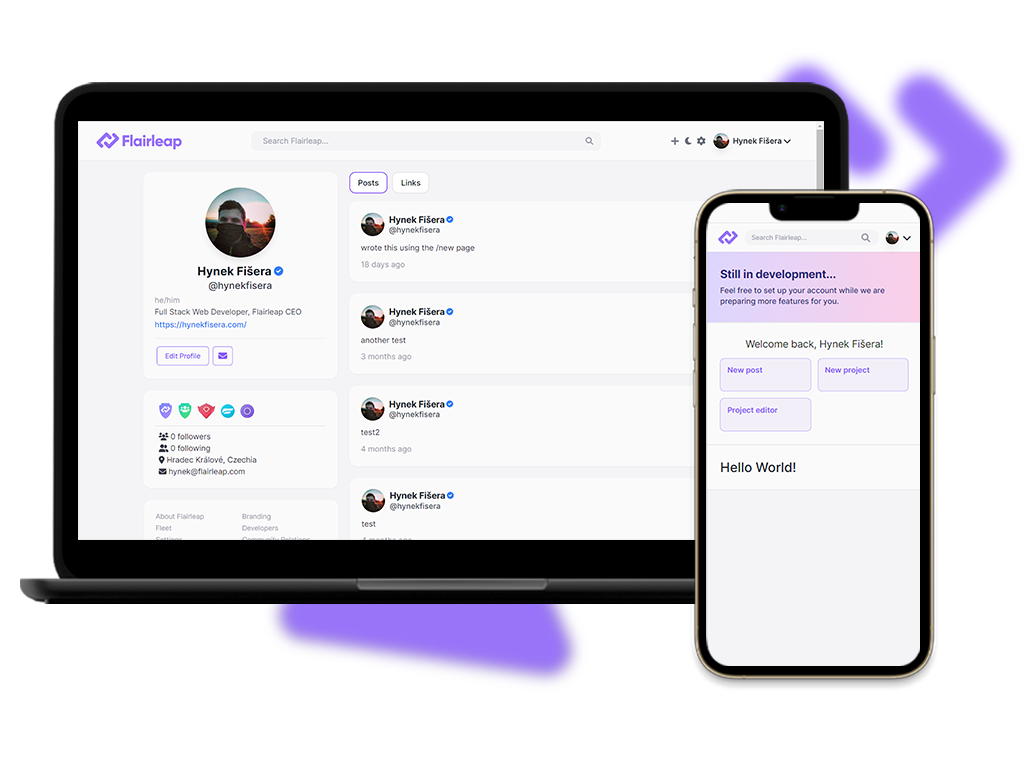
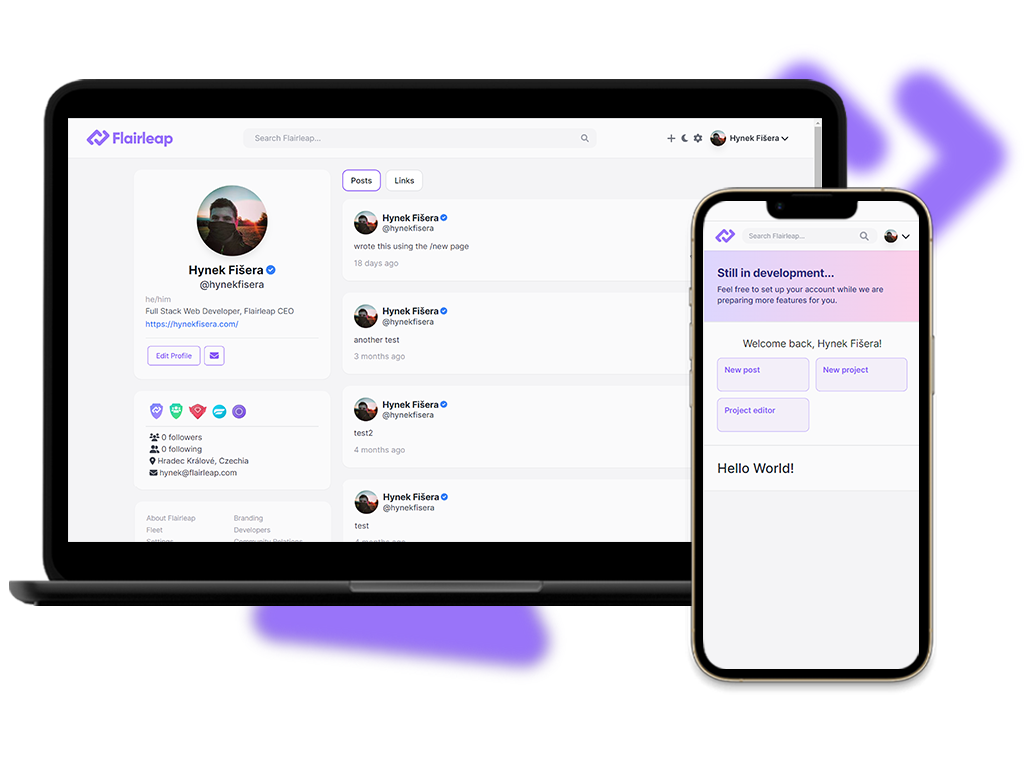
Fixed navbar & gradients

diff --git a/pages/index.tsx b/pages/index.tsx
@@ -7,15 +7,15 @@ import { serverSideTranslations } from "next-i18next/serverSideTranslations";
 import TransLink from "../components/translation/TransLink";
 
 import AcewillLogo from "/public/assets/portfolio/acewill.png";
-import AcewillImage from "/public/assets/portfolio/portfolioAcewill.webp";
+import AcewillImage from "/public/assets/portfolio/portfolioAcewill.png";
 import GarnetLogo from "/public/assets/portfolio/garnet.svg";
-import GarnetImage from "/public/assets/portfolio/portfolioGarnet.webp";
+import GarnetImage from "/public/assets/portfolio/portfolioGarnet.png";
 import EryesLogo from "/public/assets/portfolio/eryes.png";
-import EryesImage from "/public/assets/portfolio/portfolioEryes.webp";
+import EryesImage from "/public/assets/portfolio/portfolioEryes.png";
 import VrccLogo from "/public/assets/portfolio/vrcc.png";
-import VrccImage from "/public/assets/portfolio/portfolioVrcc.webp";
+import VrccImage from "/public/assets/portfolio/portfolioVrcc.png";
 import NyliumLogo from "/public/assets/portfolio/nylium.png";
-import NyliumImage from "/public/assets/portfolio/portfolioNylium.webp";
+import NyliumImage from "/public/assets/portfolio/portfolioNylium.png";
 import SwiftpassLogo from "/public/assets/portfolio/vercel.png";
 import SwiftpassImage from "/public/assets/portfolio/portfolioSwiftpass.png";
 import FlairleapLogo from "/public/assets/portfolio/flairleap.svg";
@@ -113,16 +113,16 @@ const Home: NextPage = (props: any) => {
         ]}
       />
       <main>
-        <section id="about-me" className="py-12">
+        <section id="about-me" className="pt-28 pb-20 bg-gradient-to-b from-indigo-50 to-violet-100 shadow-inner">
           <div className="max-w-screen-lg mx-auto px-4">
             <div className="my-auto">
-              <h1 className="text-2xl md:text-3xl font-semibold text-gray-700">
+              <h1 className="text-2xl md:text-3xl font-semibold text-slate-700">
                 <Trans t={t} i18nKey="intro_hello" components={[<span className="text-indigo-500" key={0} />]} />
               </h1>
-              <p className="sm:text-lg xl:text-xl text-gray-900 mt-4 xl:mt-5">
+              <p className="sm:text-lg xl:text-xl text-slate-900 mt-4 xl:mt-5">
                 <Trans t={t} i18nKey="intro_tech" components={[<span className="font-semibold" key={0}></span>, <span className="font-semibold" key={1}></span>, <span className="font-semibold" key={2}></span>]} />
               </p>
-              <p className="sm:text-lg xl:text-xl text-gray-900 mt-2 xl:mt-3">
+              <p className="sm:text-lg xl:text-xl text-slate-900 mt-2 xl:mt-3">
                 <Trans t={t} i18nKey="intro_portfolio" components={[<TransLink href="https://github.com/hynekfisera" className="text-indigo-500 hover:underline" key={0} />]} />
               </p>
               <div className="flex flex-wrap mt-4 xl:mt-5 gap-3">
@@ -136,33 +136,35 @@ const Home: NextPage = (props: any) => {
             </div>
           </div>
         </section>
-        <section id="portfolio" className="py-8 max-w-screen-xl mx-auto px-4 xl:px-0">
-          <h2 className="text-center text-3xl sm:text-4xl xl:text-[40px] mb-4 lg:mb-0 text-gray-700">Portfolio</h2>
-          {projects.map((project) => (
-            <div key={project.name} className="flex flex-col sm:even:flex-row-reverse sm:flex-row mb-16 sm:mb-12 md:mb-0">
-              <div className="sm:w-1/2 sm:px-4 md:px-16">
-                <Image src={project.img} alt={project.name} />
-              </div>
-              <div className="sm:w-1/2 flex flex-col justify-center">
-                <div className="flex items-center mb-4">
-                  <div className="h-8 w-8 sm:h-10 sm:w-10 xl:h-11 xl:w-11 mr-2 flex items-center justify-center">
-                    <Image src={project.logo} alt={project.name + "logo"} />
+        <section id="portfolio" className="pb-2 lg:pb-6 pt-12 lg:pt-16 bg-slate-50">
+          <div className="max-w-screen-xl mx-auto px-4 xl:px-0">
+            <h2 className="text-center text-3xl sm:text-4xl xl:text-[40px] mb-4 lg:mb-0 text-slate-700">Portfolio</h2>
+            {projects.map((project) => (
+              <div key={project.name} className="flex flex-col sm:even:flex-row-reverse sm:flex-row mb-16 sm:mb-12 md:mb-0">
+                <div className="sm:w-1/2 sm:px-4 md:px-16">
+                  <Image src={project.img} alt={project.name} />
+                </div>
+                <div className="sm:w-1/2 flex flex-col justify-center">
+                  <div className="flex items-center mb-4">
+                    <div className="h-8 w-8 sm:h-10 sm:w-10 xl:h-11 xl:w-11 mr-2 flex items-center justify-center">
+                      <Image src={project.logo} alt={project.name + "logo"} />
+                    </div>
+                    <span className="text-2xl xl:text-3xl font-bold text-slate-800">{project.name}</span>
                   </div>
-                  <span className="text-2xl xl:text-3xl font-bold text-gray-800">{project.name}</span>
-                </div>
-                <p className="text-lg sm:text-xl xl:text-2xl mb-2 sm:mb-3">{project.description}</p>
-                <div className="flex gap-3">
-                  {project.links.map((link, i) => {
-                    return (
-                      <Link href={link.href} key={i}>
-                        <a className={`xl:text-xl font-semibold transition duration-200 underline underline-offset-2 ${link.type === "primary" ? "text-indigo-500 hover:text-indigo-700" : "text-gray-700 hover:text-gray-900 sm:no-underline"}`}>{link.text}</a>
-                      </Link>
-                    );
-                  })}
+                  <p className="text-lg sm:text-xl xl:text-2xl mb-2 sm:mb-3">{project.description}</p>
+                  <div className="flex gap-3">
+                    {project.links.map((link, i) => {
+                      return (
+                        <Link href={link.href} key={i}>
+                          <a className={`xl:text-xl font-semibold transition duration-200 underline underline-offset-2 ${link.type === "primary" ? "text-indigo-500 hover:text-indigo-700" : "text-slate-700 hover:text-slate-900 sm:no-underline"}`}>{link.text}</a>
+                        </Link>
+                      );
+                    })}
+                  </div>
                 </div>
               </div>
-            </div>
-          ))}
+            ))}
+          </div>
         </section>
       </main>
     </>

diff --git a/components/layout/Header.tsx b/components/layout/Header.tsx
@@ -13,9 +13,16 @@ export default function Header() {
 
   const [transitionEnabled, setTransitionEnabled] = useState(false);
   const [visible, setVisible] = useState(false);
+  const [top, setTop] = useState(true);
 
   useEffect(() => {
     setTransitionEnabled(true);
+  }, []);
+
+  useEffect(() => {
+    const onScroll = () => setTop(window.scrollY <= 50);
+    window.addEventListener("scroll", onScroll, { passive: true });
+    return () => window.removeEventListener("scroll", onScroll);
   }, []);
 
   const links = [
@@ -38,32 +45,34 @@ export default function Header() {
   ];
 
   return (
-    <header className="flex justify-between items-center px-6 py-4 sm:px-8 md:px-12 md:py-6 max-w-screen-2xl mx-auto">
-      <Link href="/">
-        <a className="transition duration-200 hover:opacity-90 flex items-center">
-          <Image src={Logo} alt="Logo" layout="fixed" width={40} height={40} />
-        </a>
-      </Link>
-      <div className="flex flex-row-reverse sm:flex-row items-center justify-end gap-4 sm:gap-6">
-        <div
-          className={`${visible ? "translate-x-0" : "translate-x-full"} ${
-            transitionEnabled && "transition-transform duration-300"
-          } z-10 flex flex-col fixed pt-20 sm:pt-0 pl-8 sm:pl-0 top-0 bottom-0 h-screen sm:h-auto right-0 w-48 sm:w-auto bg-indigo-500 sm:static sm:bg-transparent gap-4 sm:gap-8 sm:translate-x-0 sm:flex-row`}
-        >
-          {links.map((link) => (
-            <Link href={link.href} key={link.href}>
-              <a onClick={() => setVisible(false)} className="xl:text-[17px] font-medium sm:font-semibold underline underline-offset-2 sm:no-underline sm:tracking-wide text-gray-50 sm:text-gray-500 sm:transition sm:duration-200 sm:hover:text-gray-700">
-                {link.text}
-              </a>
-            </Link>
-          ))}
-        </div>
-        <FontAwesomeIcon icon={faBars} className={`z-20 h-7 w-7 ${visible ? "text-white fixed top-[22px] right-6" : "text-gray-700"} sm:!hidden cursor-pointer`} onClick={() => setVisible((v) => !v)} />
-        <Link href={asPath} locale={locale === "en" ? "cs" : "en"}>
-          <a className="flex items-center justify-center text-indigo-500 hover:text-indigo-700 transition duration-200">
-            <FontAwesomeIcon icon={faGlobe} className="h-[18px] sm:h-5" />
+    <header className={`fixed top-0 left-0 right-0 z-50 transition-all duration-200 border-b ${top ? "py-4 md:py-6 bg-transparent border-transparent" : "py-2 md:py-4 border-slate-200 bg-slate-100/50 backdrop-blur-[2px]"}`}>
+      <div className="flex justify-between items-center max-w-screen-2xl mx-auto px-6 sm:px-8 md:px-12">
+        <Link href="/">
+          <a className="transition duration-200 hover:opacity-90 flex items-center">
+            <Image src={Logo} alt="Logo" layout="fixed" width={40} height={40} />
           </a>
         </Link>
+        <div className="flex flex-row-reverse sm:flex-row items-center justify-end gap-4 sm:gap-6">
+          <div
+            className={`${visible ? "translate-x-0 border-l border-slate-200" : "translate-x-full"} ${
+              transitionEnabled && "transition-transform duration-300"
+            } z-10 flex flex-col fixed pt-16 sm:pt-0 pl-8 sm:pl-0 top-0 bottom-0 h-screen sm:h-auto right-0 w-48 sm:w-auto bg-slate-800/80 sm:static sm:bg-transparent gap-4 sm:gap-8 sm:translate-x-0 sm:flex-row`}
+          >
+            {links.map((link) => (
+              <Link href={link.href} key={link.href}>
+                <a onClick={() => setVisible(false)} className="xl:text-[17px] font-medium sm:font-semibold underline underline-offset-2 sm:no-underline sm:tracking-wide text-slate-50 sm:text-slate-600 sm:transition sm:duration-200 sm:hover:text-slate-700">
+                  {link.text}
+                </a>
+              </Link>
+            ))}
+          </div>
+          <FontAwesomeIcon icon={faBars} className={`z-20 h-7 w-7 ${visible ? `text-white fixed transition-all duration-200 ${top ? "top-[22px]" : "top-[14px]"} right-6` : "text-slate-700"} sm:!hidden cursor-pointer`} onClick={() => setVisible((v) => !v)} />
+          <Link href={asPath} locale={locale === "en" ? "cs" : "en"}>
+            <a className={`${!visible ? "flex" : "hidden"} items-center justify-center text-indigo-500 hover:text-indigo-700 transition duration-200`}>
+              <FontAwesomeIcon icon={faGlobe} className="h-[18px] sm:h-5" />
+            </a>
+          </Link>
+        </div>
       </div>
     </header>
   );

diff --git a/components/layout/Footer.tsx b/components/layout/Footer.tsx
@@ -22,6 +22,7 @@ export default function Footer() {
       name: t("group_about"),
       links: [
         { text: t("link_about_about"), href: "/#about-me" },
+        { text: t("link_about_links"), href: "/links" },
         { text: t("link_about_contact"), href: "mailto:hynek@flairleap.com" },
       ],
     },
@@ -42,7 +43,7 @@ export default function Footer() {
   ];
 
   return (
-    <footer className="pb-10 pt-2 sm:pt-8">
+    <footer className="pb-16 pt-6 sm:pt-12 bg-gradient-to-b from-slate-50 via-indigo-50 to-violet-100 lg:to-violet-200">
       <div className="max-w-4xl mx-auto px-4 xl:px-0">
         <div className="grid grid-cols-2 sm:grid-cols-4 gap-2 sm:gap-4">
           {links.map((group, i) => (
@@ -50,7 +51,7 @@ export default function Footer() {
               <span className="text-indigo-500 font-medium sm:text-lg tracking-wide">{group.name}</span>
               <ul className="list-none flex flex-col sm:gap-0.5 sm:mt-1">
                 {group.links.map((link, index) => (
-                  <li key={index} className="text-gray-500 sm:text-lg tracking-wide">
+                  <li key={index} className="text-slate-600 sm:text-lg tracking-wide">
                     <Link href={link.href}>
                       <a className="hover:underline">{link.text}</a>
                     </Link>
@@ -61,11 +62,11 @@ export default function Footer() {
           ))}
         </div>
         <div className="mt-8 sm:mt-12 flex flex-col items-center text-center">
-          <div className="sm:text-lg text-gray-800">
+          <div className="sm:text-lg text-slate-900">
             &copy; Hynek Fišera {new Date().getFullYear()} |{" "}
             <Trans t={t} i18nKey="madewith" components={[<FontAwesomeIcon icon={faMugHot} className="w-5 inline-block" key={0} />, <TransLink href="https://www.google.com/maps/place/Hradec+Kr%C3%A1lov%C3%A9/" className="text-indigo-500 hover:underline" key={1} />]} />
           </div>
-          <div className="text-gray-500 mt-1 text-xs sm:text-sm lg:text-base">
+          <div className="text-slate-600 mt-1 text-xs sm:text-sm lg:text-base">
             <Trans
               t={t}
               i18nKey="builtusing"

diff --git a/pages/links.tsx b/pages/links.tsx
@@ -101,14 +101,14 @@ const Links: NextPage = (props: any) => {
         ]}
       />
       <main>
-        <section id="links" className="py-8 sm:py-12">
+        <section id="links" className="pb-8 pt-24 sm:pb-12 bg-slate-50">
           <h1 className="text-center text-3xl font-semibold mb-8 hidden sm:block">{t("heading")}</h1>
           <div className="max-w-sm mx-auto px-4 sm:px-0">
             {links.map((link, i) => (
               <Link href={link.href} key={i}>
                 <a
                   className={`mb-4 flex justify-center items-center gap-1 w-full text-lg font-medium text-center border rounded-md py-2 transition duration-200 hover:text-white ${
-                    link.type === "primary" ? "border-indigo-600 text-indigo-600 hover:bg-indigo-500" : "border-gray-600 text-gray-600 hover:bg-gray-600"
+                    link.type === "primary" ? "border-indigo-600 text-indigo-600 hover:bg-indigo-500" : "border-slate-600 text-slate-600 hover:bg-slate-600"
                   }`}
                 >
                   {link.icon && <FontAwesomeIcon icon={link.icon} className="h-4" />} {link.title}

diff --git a/pages/resources/[slug].tsx b/pages/resources/[slug].tsx
@@ -51,7 +51,7 @@ const Ide: NextPage = (props: any) => {
           },
         ]}
       />
-      <article className="!max-w-screen-lg mx-auto px-4 mt-8 mb-12 lg:mb-20 lg:px-0 prose lg:prose-lg prose-headings:!mt-8 prose-headings:!my-4 prose-headings:text-indigo-500 prose-h1:!text-[32px] lg:prose-h1:!text-[40px] prose-a:text-indigo-500 hover:prose-a:text-indigo-700 prose-strong:!text-gray-700">
+      <article className="!max-w-screen-lg mx-auto px-4 mt-8 mb-12 lg:mb-20 lg:px-0 prose lg:prose-lg prose-headings:!mt-8 prose-headings:!my-4 prose-headings:text-indigo-500 prose-h1:!text-[32px] lg:prose-h1:!text-[40px] prose-a:text-indigo-500 hover:prose-a:text-indigo-700 prose-strong:!text-slate-700">
         <MDXRemote {...props.source} />
       </article>
     </>

diff --git a/styles/globals.css b/styles/globals.css
@@ -8,7 +8,7 @@
   }
 
   .btn {
-    @apply block px-6 py-2.5 text-sm font-semibold transition duration-300 border rounded-md focus:outline-none;
+    @apply block px-6 py-2.5 text-sm lg:text-base font-semibold lg:font-medium transition duration-300 border rounded-md focus:outline-none;
   }
 
   .btn-primary {
@@ -16,7 +16,7 @@
   }
 
   .btn-secondary {
-    @apply text-gray-700 border-gray-400 hover:border-gray-600 hover:text-gray-800;
+    @apply text-slate-700 border-slate-400 hover:border-slate-600 hover:text-slate-800;
   }
 }
 
